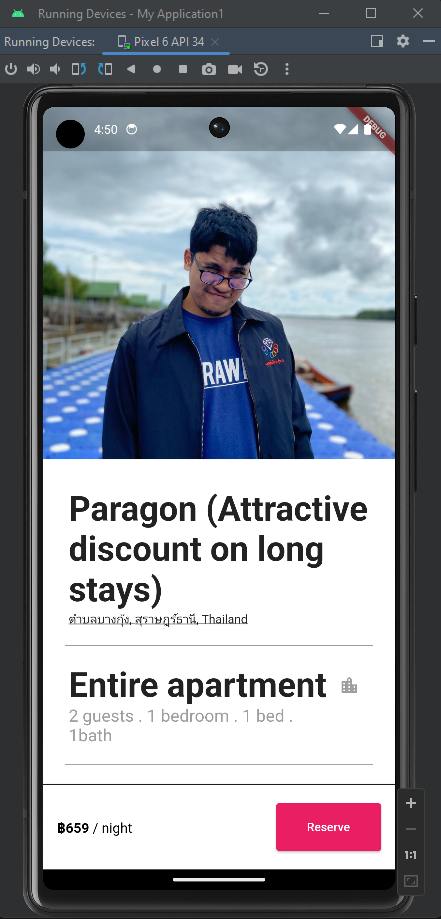
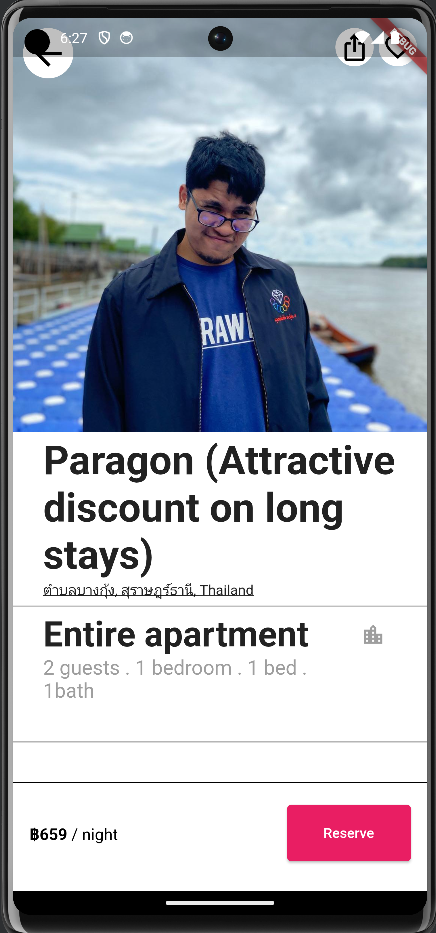
update work

diff --git a/select_four/lib/four.dart b/select_four/lib/four.dart
@@ -1,156 +1,225 @@
 import 'package:flutter/material.dart';
 
 class Four extends StatelessWidget {
-  const Four({super.key});
+  const Four({Key? key}) : super(key: key);
 
   @override
   Widget build(BuildContext context) {
     double widthScreen = MediaQuery.of(context).size.width;
     return Scaffold(
-        backgroundColor: Colors.white,
-        body: Container(
-          width: widthScreen,
-          child: Column(
-              mainAxisAlignment: MainAxisAlignment.spaceBetween,
-              children: [
-                Image(image: AssetImage('assets/image/Profile.jpg')),
-                SizedBox(
-                  height: 5,
-                ),
-                Padding(
-                  padding: const EdgeInsets.only(left: 30.0),
-                  child: Container(
-                    width: 430,
-                    child: Wrap(
-                      children: [
-                        Container(
-                          width: 350,
+      backgroundColor: Colors.white,
+      body: Stack(
+        children: [
+          // Column to hold the image and content below it
+          Column(
+            crossAxisAlignment: CrossAxisAlignment.stretch,
+            children: [
+              Image(
+                image: AssetImage('assets/image/Profile.jpg'),
+                width: widthScreen,
+              ),
+              SizedBox(height: 5),
+              Padding(
+                padding: const EdgeInsets.only(left: 30.0),
+                child: Container(
+                  width: 430,
+                  child: Wrap(
+                    children: [
+                      Container(
+                        width: 350,
+                        child: Text(
+                          'Paragon (Attractive discount on long stays)',
+                          style: TextStyle(
+                            fontWeight: FontWeight.bold,
+                            fontSize: 40,
+                          ),
+                          softWrap: true,
+                        ),
+                      ),
+                      Align(
+                        alignment: Alignment.centerLeft,
+                        child: Container(
                           child: Text(
-                            'Paragon (Attractive discount on long stays)',
-                            style: TextStyle(
-                                fontWeight: FontWeight.bold, fontSize: 40),
+                            'ตำบลบางกุ้ง, สุราษฎร์ธานี, Thailand',
+                            style:
+                                TextStyle(decoration: TextDecoration.underline),
                             softWrap: true,
                           ),
-                        ),
-                        Align(
-                          alignment: Alignment.centerLeft,
-                          child: Container(
-                            child: Text(
-                              'ตำบลบางกุ้ง, สุราษฎร์ธานี, Thailand',
-                              style: TextStyle(
-                                  decoration: TextDecoration.underline),
-                              softWrap: true,
-                            ),
-                          ),
-                        ),
-                      ],
-                    ),
-                  ),
-                ),
-                Container(
-                  width: 360,
-                  child: Divider(
-                    thickness: 1.0,
-                    color: Colors.grey,
-                  ),
-                ),
-                //efefefe
-                Padding(
-                  padding: const EdgeInsets.only(left: 30.0),
-                  child: Container(
-                    child: Wrap(
-                      children: [
-                        Container(
-                          width: 340,
-                          child: Row(
-                            mainAxisAlignment: MainAxisAlignment.spaceBetween,
-                            children: [
-                              Text(
-                                'Entire apartment',
-                                style: TextStyle(
-                                    fontSize: 40, fontWeight: FontWeight.bold),
-                              ),
-                              Icon(
-                                Icons.location_city,
-                                color: Colors.grey,
-                              ),
-                            ],
-                          ),
-                        ),
-                        Align(
-                          alignment: Alignment.centerLeft,
-                          child: Container(
-                            width: 300,
-                            child: Text(
-                              '2 guests . 1 bedroom . 1 bed . 1bath',
-                              style:
-                                  TextStyle(color: Colors.grey, fontSize: 20),
-                              softWrap: true,
-                            ),
-                          ),
-                        ),
-                      ],
-                    ),
-                  ),
-                ),
-                Container(
-                  width: 360,
-                  child: Divider(
-                    thickness: 1.0,
-                    color: Colors.grey,
-                  ),
-                ),
-                Container(
-                  height: 100,
-                  width: double.infinity,
-                  decoration: BoxDecoration(
-                    color: Colors.white,
-                    border: Border(
-                      top: BorderSide(
-                        color: Colors.black,
-                        width: 1.0,
-                      ),
-                    ),
-                  ),
-                  padding: EdgeInsets.symmetric(horizontal: 16),
-                  child: Row(
-                    mainAxisAlignment: MainAxisAlignment.spaceBetween,
-                    children: [
-                      RichText(
-                          text: TextSpan(
-                              text: '฿659',
-                              style: TextStyle(
-                                  color: Colors.black,
-                                  fontWeight: FontWeight.bold,
-                                  fontSize: 16),
-                              children: [
-                            TextSpan(
-                                text: ' / night',
-                                style:
-                                    TextStyle(fontWeight: FontWeight.normal)),
-                          ])),
-                      Container(
-                        width: 200,
-                        child: Row(
-                          mainAxisAlignment: MainAxisAlignment.end,
-                          children: [
-                            ElevatedButton(
-                              onPressed: () {},
-                              style: ElevatedButton.styleFrom(
-                                primary: Colors.pink,
-                              ),
-                              child: Padding(
-                                padding: const EdgeInsets.all(20.0),
-                                child: Text('Reserve'),
-                              ),
-                            ),
-                          ],
                         ),
                       ),
                     ],
                   ),
                 ),
-              ]),
-        ));
+              ),
+              Container(
+                width: 360,
+                child: Divider(
+                  thickness: 1.0,
+                  color: Colors.grey,
+                ),
+              ),
+              //efefefe
+              Padding(
+                padding: const EdgeInsets.only(left: 30.0),
+                child: Container(
+                  child: Wrap(
+                    children: [
+                      Container(
+                        width: 340,
+                        child: Row(
+                          mainAxisAlignment: MainAxisAlignment.spaceBetween,
+                          children: [
+                            Text(
+                              'Entire apartment',
+                              style: TextStyle(
+                                fontSize: 35,
+                                fontWeight: FontWeight.bold,
+                              ),
+                            ),
+                            Icon(
+                              Icons.location_city,
+                              color: Colors.grey,
+                            ),
+                          ],
+                        ),
+                      ),
+                      Align(
+                        alignment: Alignment.centerLeft,
+                        child: Container(
+                          width: 300,
+                          child: Text(
+                            '2 guests . 1 bedroom . 1 bed . 1bath',
+                            style: TextStyle(color: Colors.grey, fontSize: 20),
+                            softWrap: true,
+                          ),
+                        ),
+                      ),
+                    ],
+                  ),
+                ),
+              ),
+              Container(
+                width: 360,
+                height: 80,
+                child: Divider(
+                  thickness: 1.0,
+                  color: Colors.grey,
+                ),
+              ),
+              Container(
+                height: 100,
+                width: double.infinity,
+                decoration: BoxDecoration(
+                  color: Colors.white,
+                  border: Border(
+                    top: BorderSide(
+                      color: Colors.black,
+                      width: 1.0,
+                    ),
+                  ),
+                ),
+                padding: EdgeInsets.symmetric(horizontal: 16),
+                child: Row(
+                  mainAxisAlignment: MainAxisAlignment.spaceBetween,
+                  children: [
+                    RichText(
+                      text: TextSpan(
+                        text: '฿659',
+                        style: TextStyle(
+                          color: Colors.black,
+                          fontWeight: FontWeight.bold,
+                          fontSize: 16,
+                        ),
+                        children: [
+                          TextSpan(
+                            text: ' / night',
+                            style: TextStyle(fontWeight: FontWeight.normal),
+                          ),
+                        ],
+                      ),
+                    ),
+                    Container(
+                      width: 200,
+                      child: Row(
+                        mainAxisAlignment: MainAxisAlignment.end,
+                        children: [
+                          ElevatedButton(
+                            onPressed: () {},
+                            style: ElevatedButton.styleFrom(
+                              primary: Colors.pink,
+                            ),
+                            child: Padding(
+                              padding: const EdgeInsets.all(20.0),
+                              child: Text('Reserve'),
+                            ),
+                          ),
+                        ],
+                      ),
+                    ),
+                  ],
+                ),
+              ),
+            ],
+          ),
+          // Icon overlayed on the image
+          Positioned(
+            top: 10,
+            left: 10,
+            child: Container(
+              padding: EdgeInsets.all(5), // Add padding for the border
+              decoration: BoxDecoration(
+                shape: BoxShape.circle,
+                color: Colors.white,
+              ),
+              child: Icon(
+                Icons.arrow_back,
+                size: 40,
+                color: Colors.black,
+              ),
+            ),
+          ),
+          ///////
+          Positioned(
+            top: 10,
+            right: 10,
+            child: Container(
+              child: Row(
+                children: [
+                  Container(
+                    padding: EdgeInsets.all(2), // Add padding for the border
+                    decoration: BoxDecoration(
+                      shape: BoxShape.circle,
+                      color: Colors.white,
+                      border: Border.all(
+                          width: 2, color: Colors.white), // White border
+                    ),
+                    child: Icon(
+                      Icons.ios_share,
+                      size: 30,
+                      color: Colors.black,
+                    ),
+                  ),
+                  SizedBox(width: 5),
+                  Container(
+                    padding: EdgeInsets.all(2), // Add padding for the border
+                    decoration: BoxDecoration(
+                      shape: BoxShape.circle,
+                      color: Colors.white,
+                      border: Border.all(
+                          width: 2, color: Colors.white), // White border
+                    ),
+                    child: Icon(
+                      Icons.favorite_border,
+                      size: 30,
+                      color: Colors.black,
+                    ),
+                  ),
+                ],
+              ),
+            ),
+          ),
+        ],
+      ),
+    );
   }
 }
